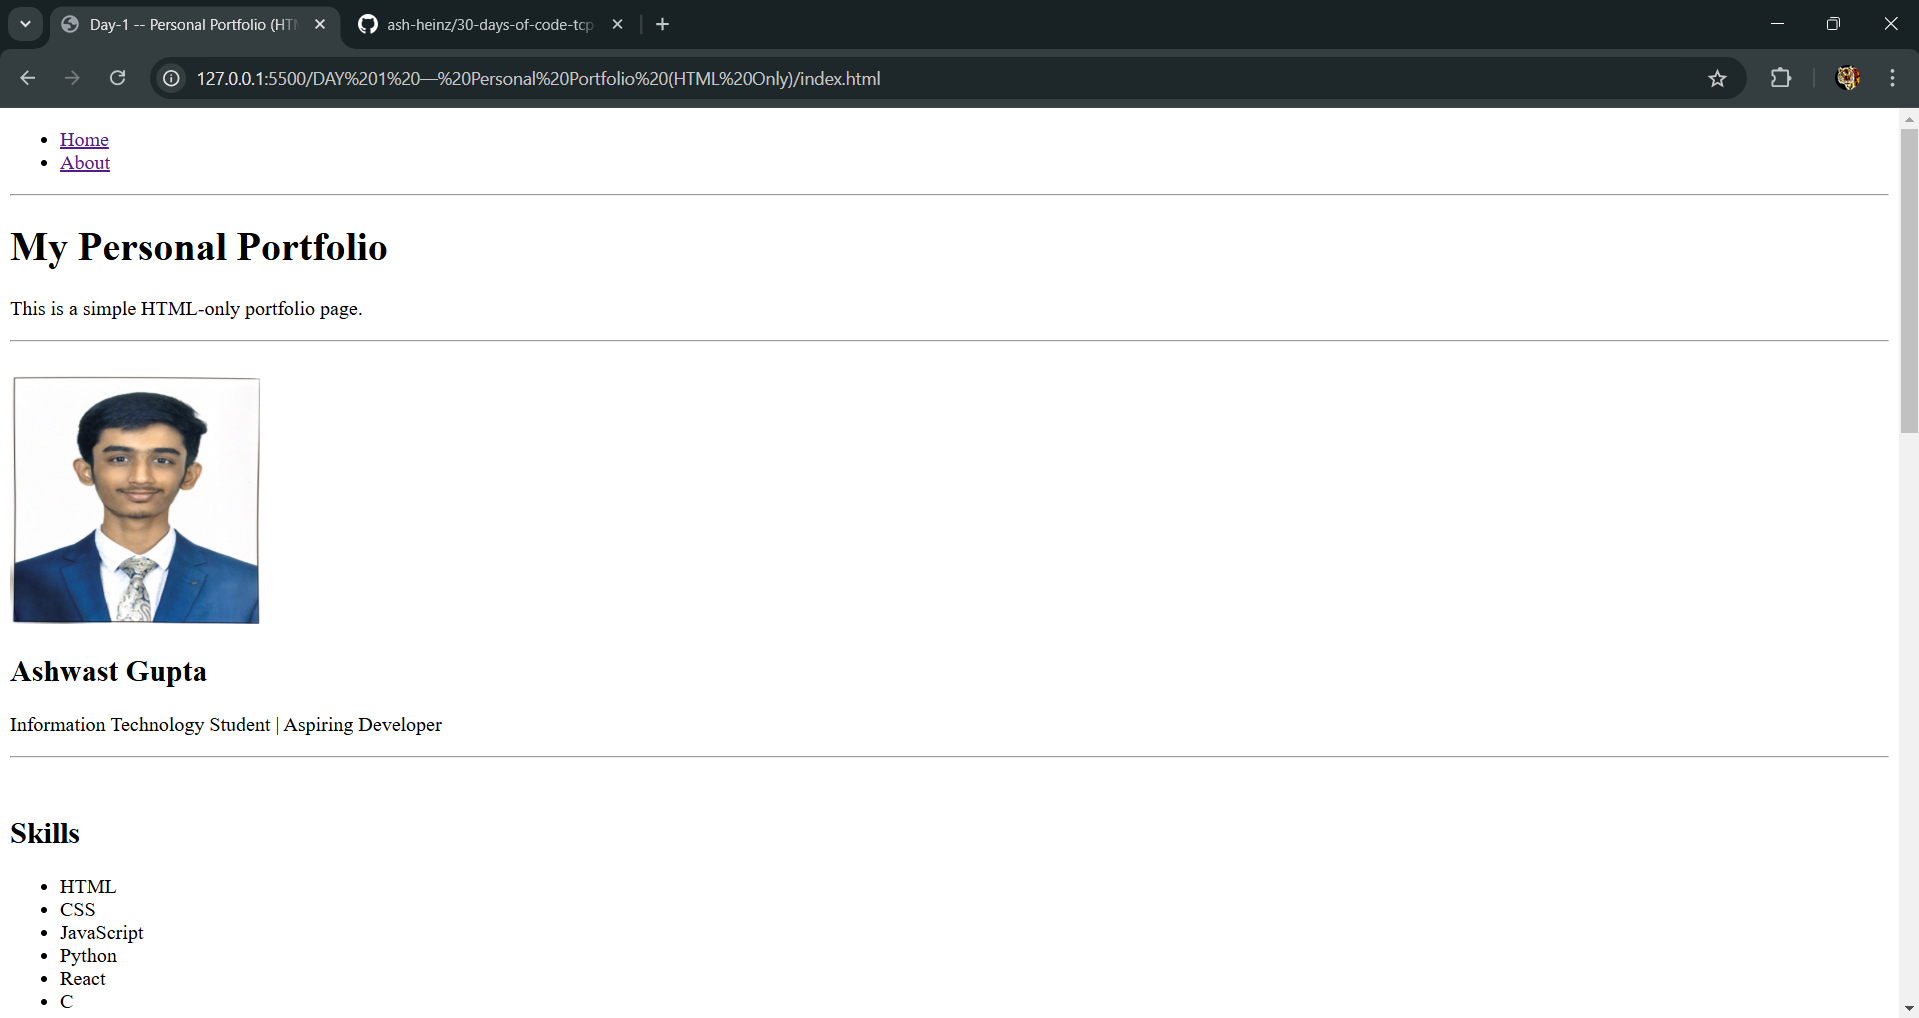
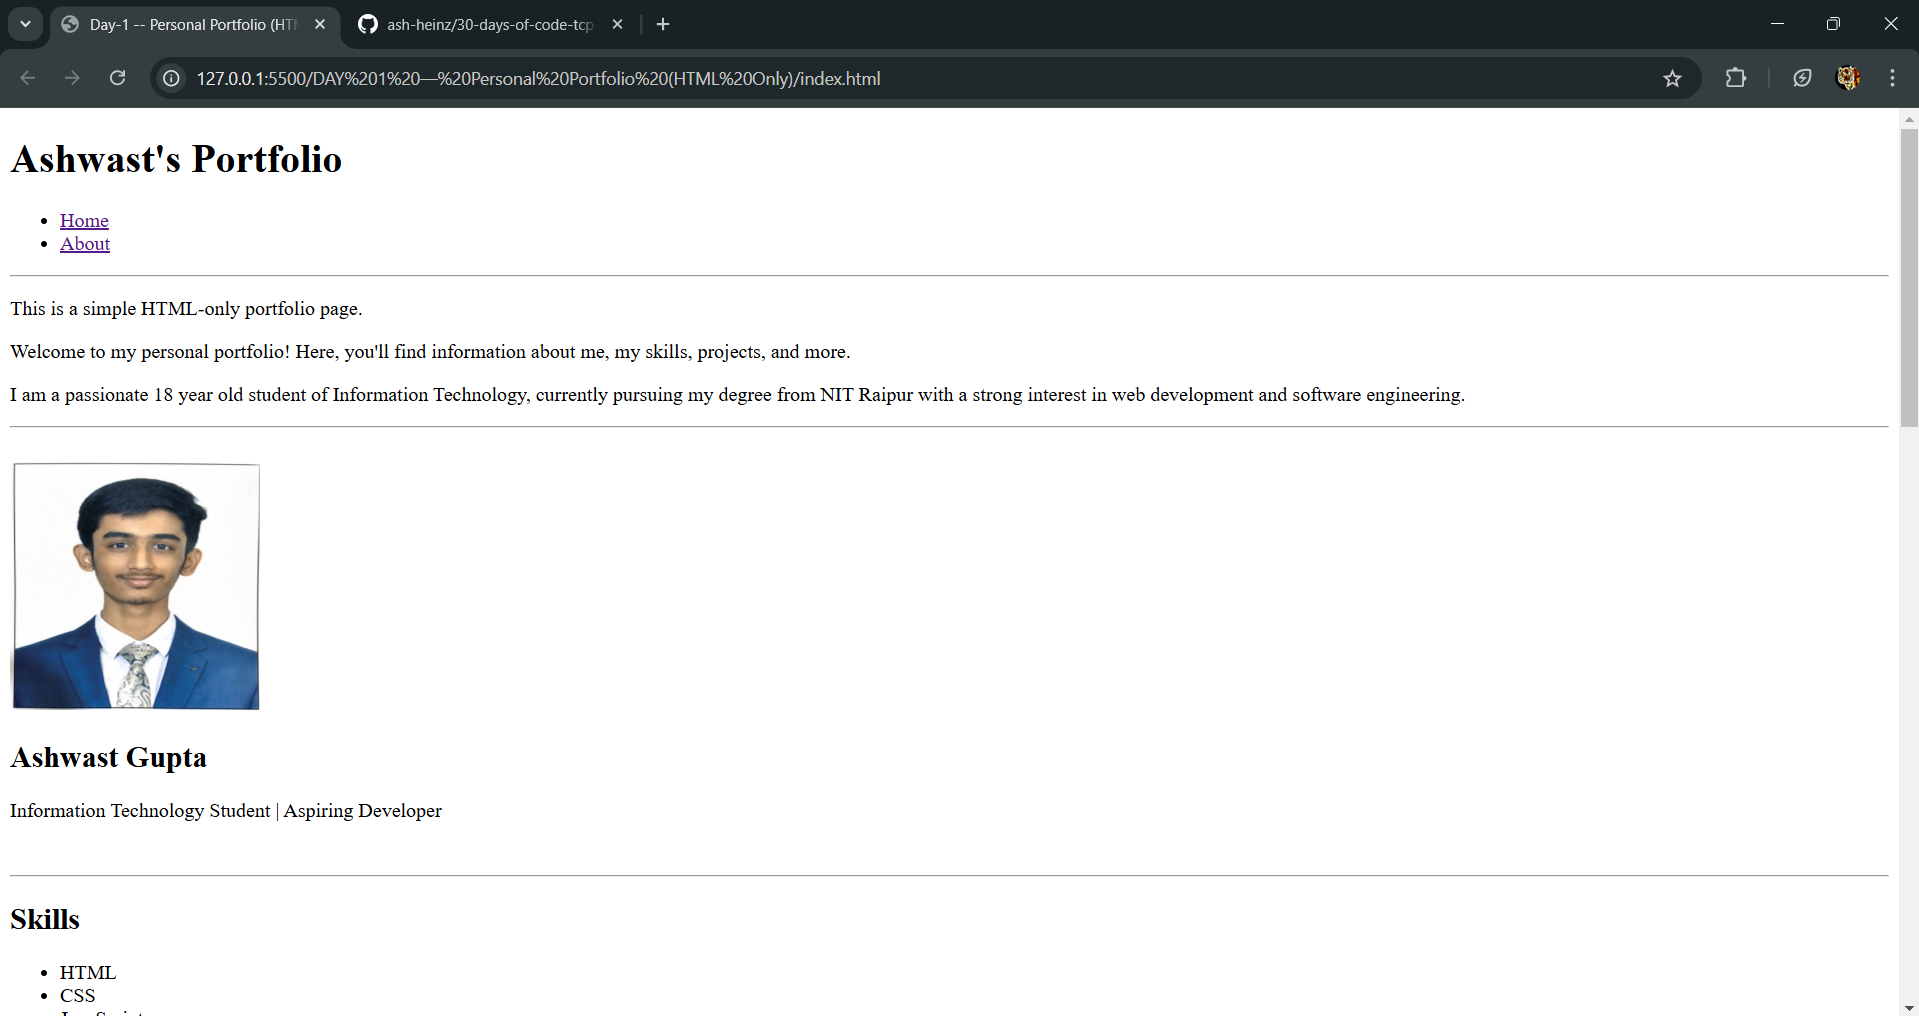
changes

diff --git a/DAY 1 — Personal Portfolio (HTML Only)/index.html b/DAY 1 — Personal Portfolio (HTML Only)/index.html
@@ -6,7 +6,8 @@
     <title>Day-1 -- Personal Portfolio (HTML Only)</title>
 </head>
 <body>
-    <header></header>
+    <header>
+        <h1>Ashwast's Portfolio</h1>
         <nav>
             <ul>
                 <li><a href="index.html">Home</a></li>
@@ -15,10 +16,9 @@
         </nav>
     </header>
     <hr>
-    <div>
-        <h1>My Personal Portfolio</h1>
-        <p>This is a simple HTML-only portfolio page.</p>
-    </div>
+    <p>This is a simple HTML-only portfolio page.</p>
+    <p>Welcome to my personal portfolio! Here, you'll find information about me, my skills, projects, and more.</p>
+    <p> I am a passionate 18 year old student of Information Technology, currently pursuing my degree from NIT Raipur with a strong interest in web development and software engineering.</p>
     <hr>
     <br>
     <div id="Card">
@@ -26,8 +26,8 @@
         <h2>Ashwast Gupta</h2>
         <p>Information Technology Student | Aspiring Developer</p>
     </div>
-    <hr>
     <br>
+    <hr>
     <div id="skills">
         <h2>Skills</h2>
         <ul>
@@ -39,8 +39,8 @@
             <li>C</li>
         </ul>
     </div>
-    <hr>
     <br>
+    <hr>
     <div id="projects">
         <h2>Projects</h2>
         <article><strong>Project 1:</strong> 
@@ -68,8 +68,9 @@
         <br>
         <hr>
     </div>
-    <iframe width="560" height="315" src="https://www.youtube.com/embed/wDchsz8nmbo?si=A7fT0HtOvs6xvXjq" title="YouTube video player" frameborder="0" allow="accelerometer; autoplay; clipboard-write; encrypted-media; gyroscope; picture-in-picture; web-share" referrerpolicy="strict-origin-when-cross-origin" allowfullscreen></iframe>    <hr>
+    <iframe width="560" height="315" src="https://www.youtube.com/embed/wDchsz8nmbo?si=A7fT0HtOvs6xvXjq" title="YouTube video player" frameborder="0" allow="accelerometer; autoplay; clipboard-write; encrypted-media; gyroscope; picture-in-picture; web-share" referrerpolicy="strict-origin-when-cross-origin" allowfullscreen></iframe>    
     <br>
+    <hr>
     <blockquote cite="https://dn790006.ca.archive.org/0/items/TheArtOfWarBySunTzu/ArtOfWar.pdf">
         "To confuse your enemies, first confuse yourself." - Sun Tzu
     </blockquote>
